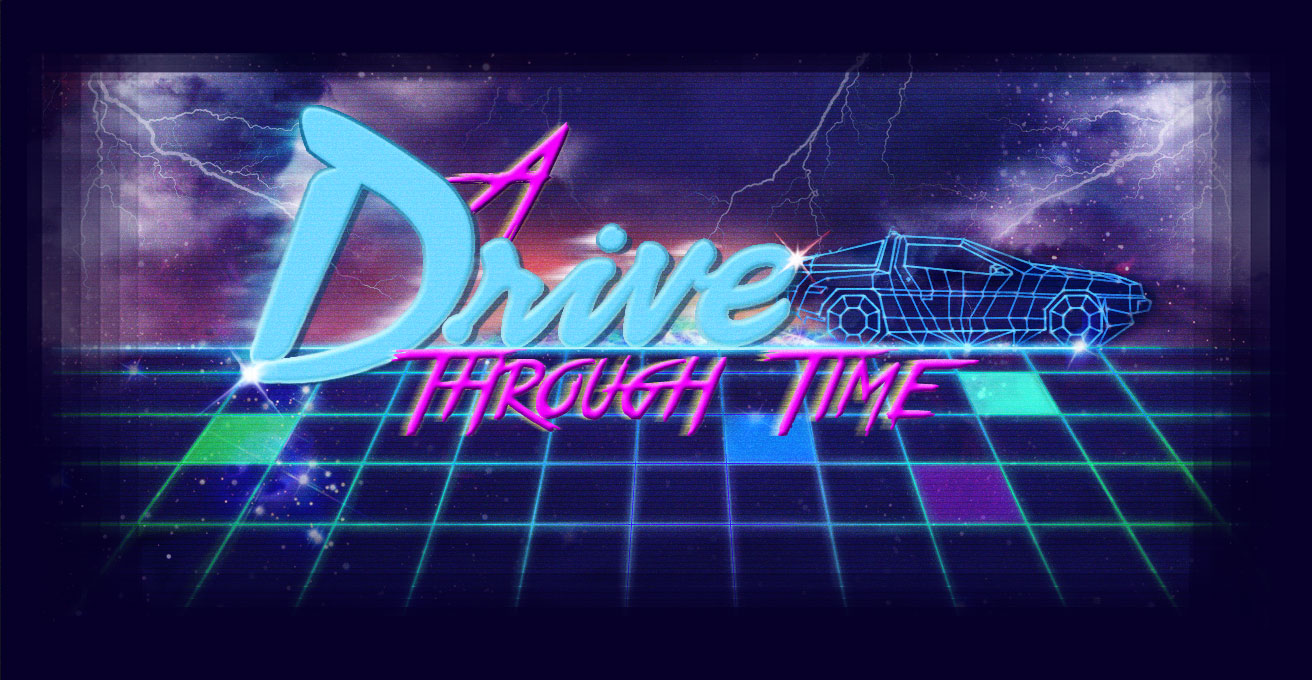
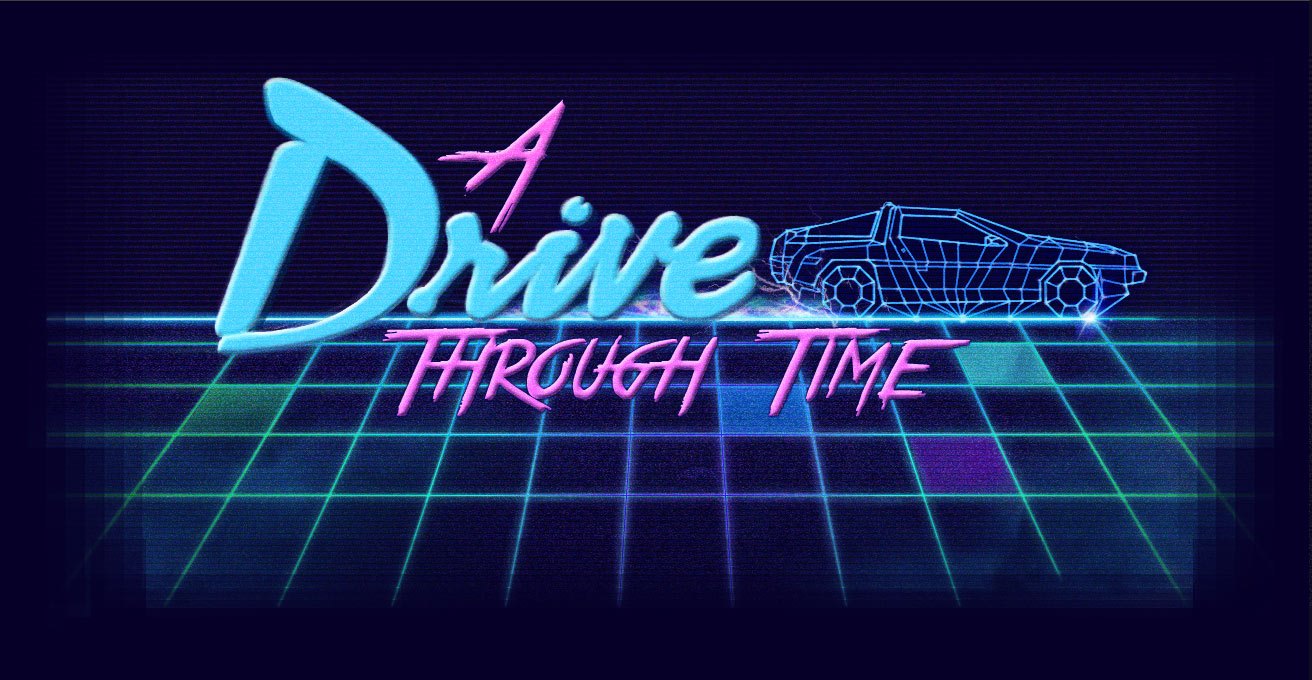
replaced title screen, oil sprite, added nuke sprites

diff --git a/js/entities/entities.js b/js/entities/entities.js
@@ -540,11 +540,88 @@ game.OilEntity = me.ObjectEntity.extend({
 	{
 		//define this here instead of in Tiled
 		settings.image = "oil";
-		settings.spritewidth = 256;
+		settings.spritewidth = 96;
+		//call the parent constructor
+		this.parent(x, y, settings);
+		//make it collidable
+		this.collidable = true;
+		//make it an enemy object
+		this.type = me.game.ENEMY_OBJECT;
+	},
+
+	onCollision: function()
+	{
+		//commands to execute when collected
+
+		//make sure it can't be collected again
+		//this.collidable = false;
+	},
+
+	update: function()
+	{
+		if(!this.inViewport)
+		{
+			return false;
+		}
+		else
+		{
+			this.parent();
+			return true;
+		}
+	}
+})
+
+game.NukeLeftEntity = me.ObjectEntity.extend({
+
+	init: function(x, y, settings)
+	{
+		//define this here instead of in Tiled
+		settings.image = "nukeLeft";
+		settings.spritewidth = 160;
+		//call the parent constructor
+		this.parent(x, y, settings);
+		//tighten the collision box around the sprite 
+		//x, width, y, height
+		this.updateColRect(45, 96, 213, 73);
+		//make it collidable
+		this.collidable = true;
+		//make it an enemy object
+		this.type = me.game.ENEMY_OBJECT;
+	},
+
+	onCollision: function()
+	{
+		//commands to execute when collected
+
+		//make sure it can't be collected again
+		//this.collidable = false;
+	},
+
+	update: function()
+	{
+		if(!this.inViewport)
+		{
+			return false;
+		}
+		else
+		{
+			this.parent();
+			return true;
+		}
+	}
+})
+
+game.NukeRightEntity = me.ObjectEntity.extend({
+
+	init: function(x, y, settings)
+	{
+		//define this here instead of in Tiled
+		settings.image = "nukeRight";
+		settings.spritewidth = 224;
 		//call the parent constructor
 		this.parent(x, y, settings);
 		//tighten the collision box around the sprite
-		this.updateColRect(0, 96, 152, 73);
+		this.updateColRect(0, 96, 165, 73);
 		//make it collidable
 		this.collidable = true;
 		//make it an enemy object

diff --git a/js/resources.js b/js/resources.js
@@ -37,10 +37,12 @@ game.resources = [
 	{name: "invader", type: "image", src: "data/img/sprite/invader_sprite.png"},
 	{name: "cow", type: "image", src: "data/img/sprite/cow.png"},
 	{name: "carspun-right", type: "image", src: "data/img/sprite/carspun-right.png"},
+	{name: "oil", type: "image", src: "data/img/sprite/oil.png"},
 	{name: "water", type: "image", src: "data/img/sprite/water.png"},
 	{name: "banana", type: "image", src: "data/img/sprite/banana.png"},
 	{name: "ferrari", type: "image", src: "data/img/sprite/ferrari.png"},
-	{name: "oil", type: "image", src: "data/img/sprite/oil.png"},
+	{name: "nukeLeft", type: "image", src: "data/img/sprite/nuclear_left.png"},
+	{name: "nukeRight", type: "image", src: "data/img/sprite/nuclear_right.png"},
 	//transition object
 	{name: "trans", type: "image", src: "data/img/sprite/trans.png"},
 	//the parallax elements

diff --git a/js/game.js b/js/game.js
@@ -35,7 +35,7 @@ var game = {
         me.sys.fps = 60;
         me.sys.preRender = false;
 
-        //me.debug.renderHitBox = true;
+        me.debug.renderHitBox = true;
         //set the title Screen Object
         me.state.set(me.state.MENU, new game.TitleScreen());
         //set the "Play/Ingame" Screen Object
@@ -61,6 +61,8 @@ var game = {
         me.entityPool.add("BananaEntity", game.BananaEntity);
         me.entityPool.add("FerrariEntity", game.FerrariEntity);
         me.entityPool.add("OilEntity", game.OilEntity);
+        me.entityPool.add("NukeLeftEntity", game.NukeLeftEntity);
+        me.entityPool.add("NukeRightEntity", game.NukeRightEntity);
         //transition
         me.entityPool.add("TransitionEntity", game.TransitionEntity);
         
